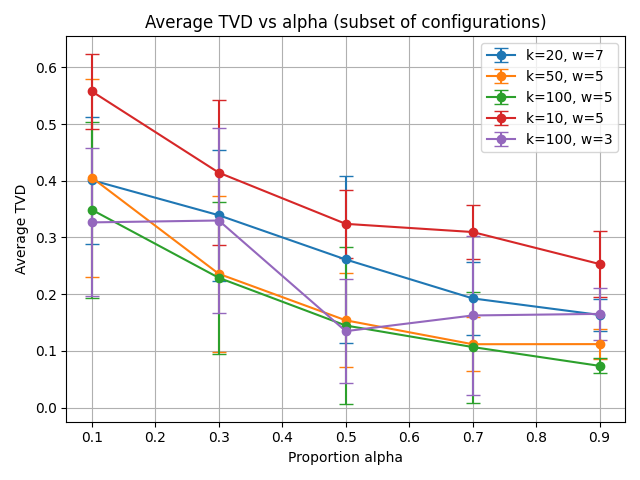
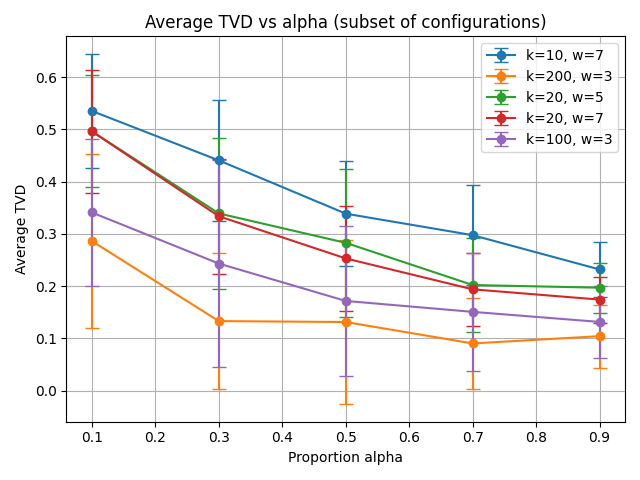
plots

diff --git a/plots.py b/plots.py
@@ -105,7 +105,7 @@ if __name__ == "__main__":
     alpha_vals = [0.1, 0.3, 0.5, 0.7, 0.9]
 
     print("Running experiments (this may take a while)...")
-    results = experiment_grid(k_vals, w_vals, alpha_vals, n_repeats=10)
+    results = experiment_grid(k_vals, w_vals, alpha_vals, n_repeats=50)
 
     print("Plotting TVD vs k...")
     plot_tvd_vs_k(results, alpha_fixed=0.5)
